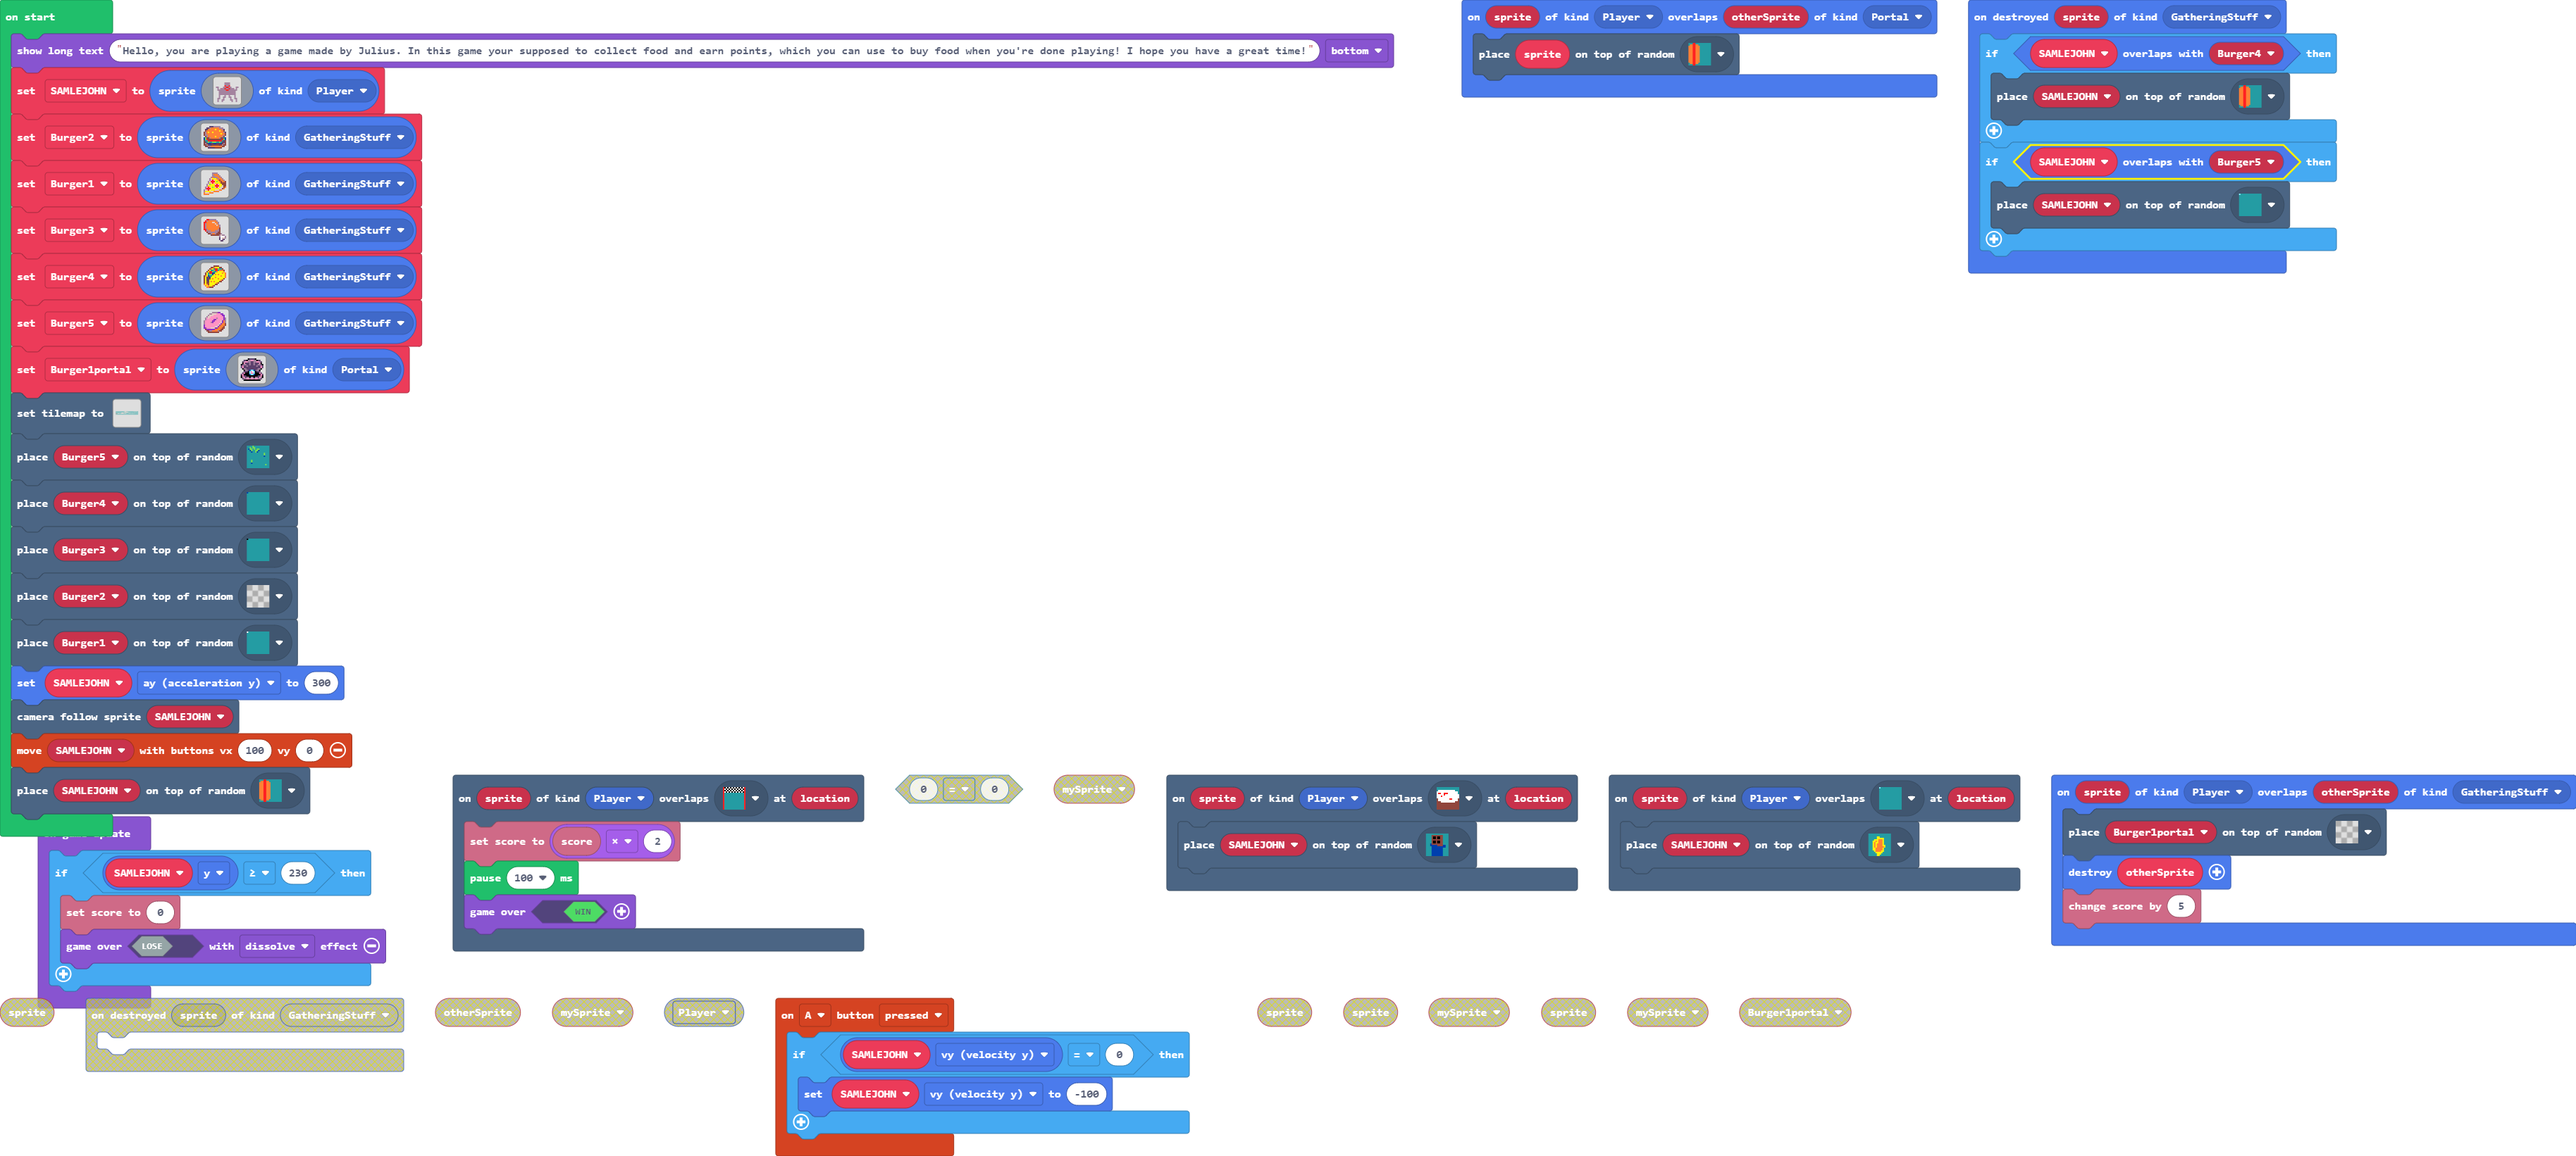
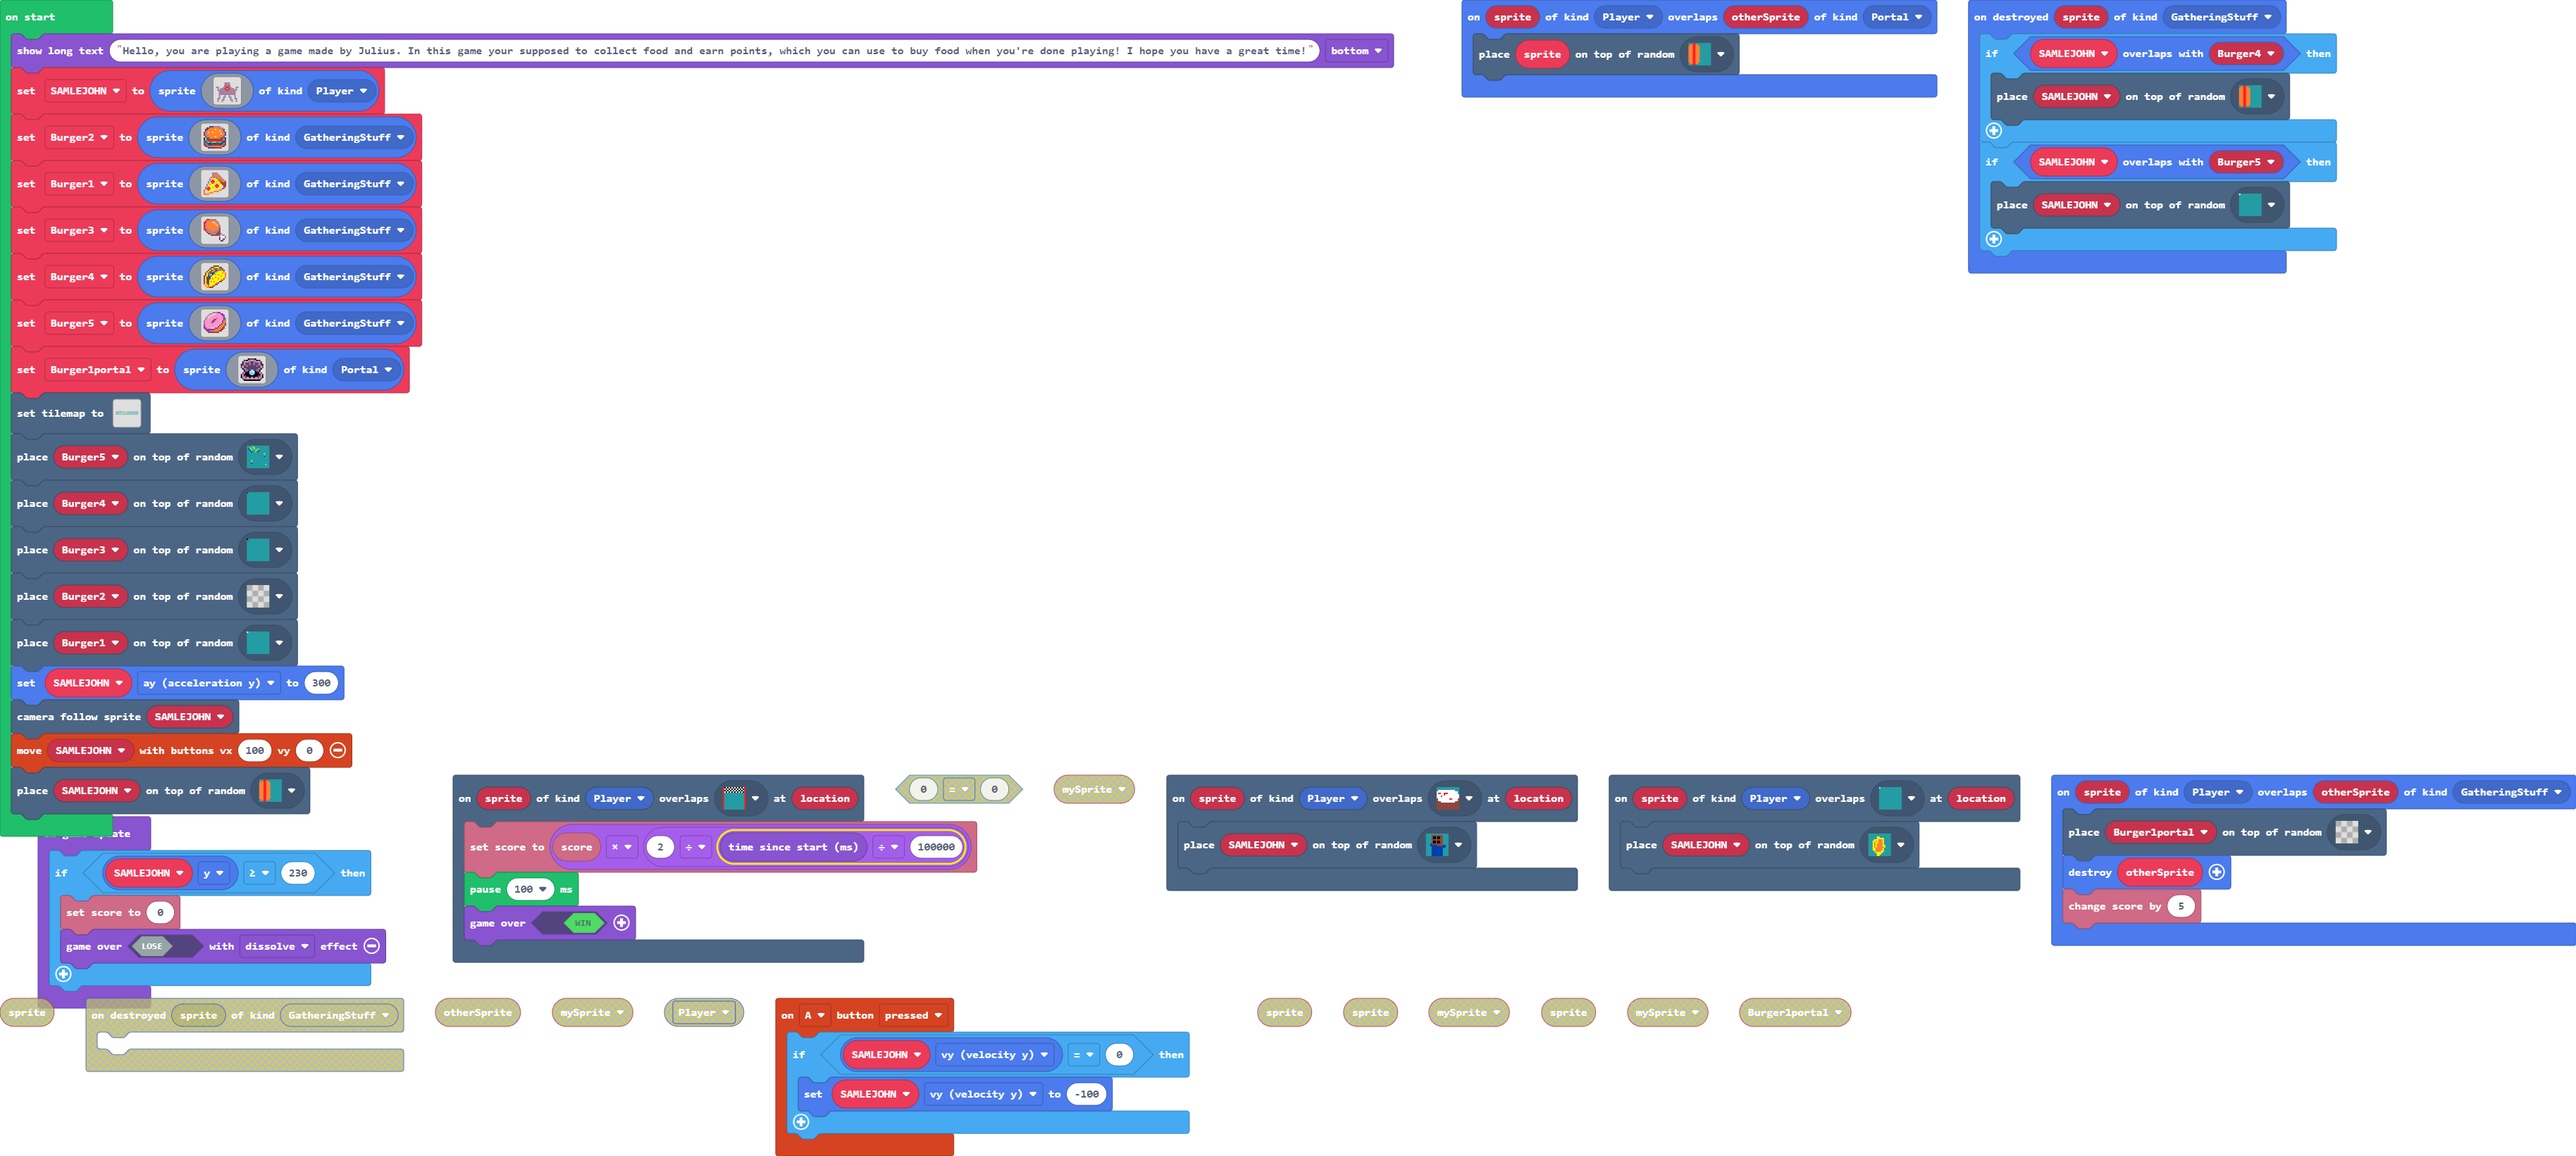
Update main.blocks, main.ts

Changed region(s): [[0.1559, 0.6833, 0.4054, 0.8386], [0.7795, 0.1242, 0.9043, 0.1553]]

diff --git a/main.ts b/main.ts
@@ -18,7 +18,7 @@ sprites.onDestroyed(SpriteKind.GatheringStuff, function (sprite) {
         tiles.placeOnRandomTile(SAMLEJOHN, myTiles.tile1)
     }
     if (SAMLEJOHN.overlapsWith(Burger5)) {
-        tiles.placeOnRandomTile(SAMLEJOHN, myTiles.tile8)
+        tiles.placeOnRandomTile(SAMLEJOHN, myTiles.tile5)
     }
 })
 sprites.onOverlap(SpriteKind.Player, SpriteKind.GatheringStuff, function (sprite, otherSprite) {
@@ -27,7 +27,7 @@ sprites.onOverlap(SpriteKind.Player, SpriteKind.GatheringStuff, function (sprite
     info.changeScoreBy(5)
 })
 scene.onOverlapTile(SpriteKind.Player, myTiles.tile11, function (sprite, location) {
-    info.setScore(info.score() * 2)
+    info.setScore(info.score() * (2 / (game.runtime() / 100000)))
     pause(100)
     game.over(true)
 })
